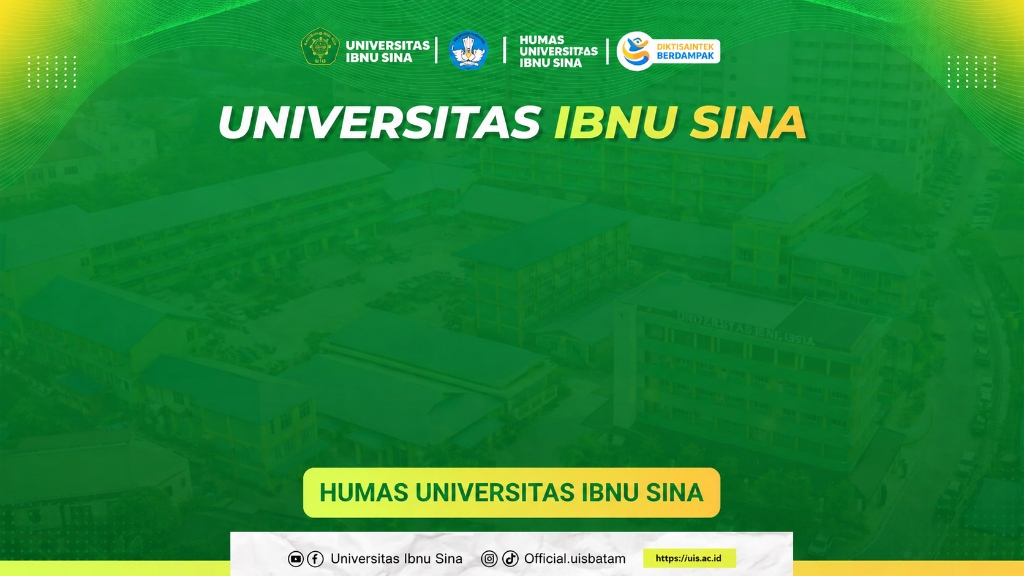
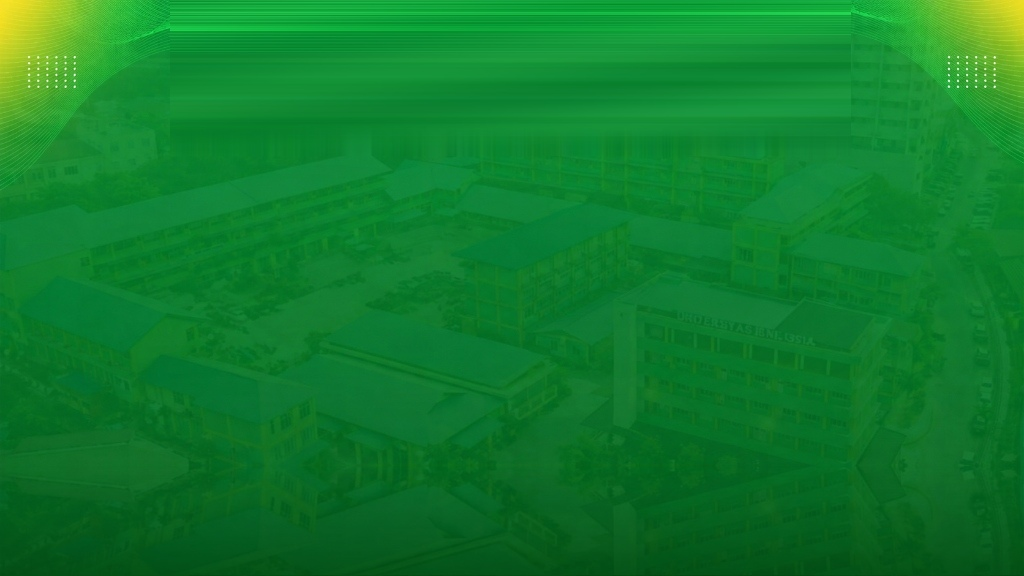
fix(visimisi): ensure uploaded background image saves directly to assets/img, avoid symlink failure and add cache-busting version

Changed region(s): [[0.0, 0.8125, 1.0, 1.0], [0.1562, 0.0, 0.8438, 0.125], [0.1875, 0.1562, 0.8125, 0.25]]

diff --git a/app/Http/Controllers/VisiMisiController.php b/app/Http/Controllers/VisiMisiController.php
@@ -73,16 +73,53 @@ class VisiMisiController extends Controller
         }
 
         if ($request->hasFile('visimisi_background')) {
-            if ($about->visimisi_background) {
-                $oldPath = ltrim(preg_replace('#^(public/|storage/)#', '', $about->visimisi_background), '/');
-                if (Storage::disk('public')->exists($oldPath)) {
-                    Storage::disk('public')->delete($oldPath);
+            $file = $request->file('visimisi_background');
+            $ext = strtolower($file->getClientOriginalExtension() ?: 'jpg');
+            $filename = 'visimisi_bg_' . time() . '_' . uniqid() . '.' . $ext;
+
+            // 1. Simpan ke Storage disk public standar Laravel
+            $storedPath = $file->storeAs('visi-misi', $filename, 'public');
+
+            // 2. Simpan juga langsung ke public/assets/img/ agar 100% langsung bisa diakses tanpa ketergantungan symlink storage
+            try {
+                $publicImgDir = public_path('assets/img');
+                if (!file_exists($publicImgDir)) {
+                    @mkdir($publicImgDir, 0755, true);
                 }
-                if (file_exists(public_path('storage/' . $oldPath))) {
-                    @unlink(public_path('storage/' . $oldPath));
-                }
+                @copy($file->getRealPath(), $publicImgDir . '/' . $filename);
+            } catch (\Throwable $e) {
+                \Illuminate\Support\Facades\Log::warning('Copy visimisi bg to assets/img failed: ' . $e->getMessage());
             }
-            $updateData['visimisi_background'] = $request->file('visimisi_background')->store('visi-misi', 'public');
+
+            // 3. Simpan juga ke public/storage/visi-misi jika folder public/storage ada
+            try {
+                $publicStorageDir = public_path('storage/visi-misi');
+                if (!file_exists($publicStorageDir)) {
+                    @mkdir($publicStorageDir, 0755, true);
+                }
+                @copy($file->getRealPath(), $publicStorageDir . '/' . $filename);
+            } catch (\Throwable $e) {}
+
+            // Hapus file lama jika ada
+            if ($about->visimisi_background) {
+                $oldRaw = $about->visimisi_background;
+                $oldClean = ltrim(preg_replace('#^(public/|storage/)#', '', $oldRaw), '/');
+                $oldBase = basename($oldClean);
+
+                try {
+                    if (Storage::disk('public')->exists($oldClean)) {
+                        Storage::disk('public')->delete($oldClean);
+                    }
+                    if (file_exists(public_path('storage/' . $oldClean))) {
+                        @unlink(public_path('storage/' . $oldClean));
+                    }
+                    if (file_exists(public_path('assets/img/' . $oldBase))) {
+                        @unlink(public_path('assets/img/' . $oldBase));
+                    }
+                } catch (\Throwable $e) {}
+            }
+
+            $updateData['visimisi_background'] = $filename;
         }
 
         if (!empty($updateData)) {
@@ -226,13 +263,21 @@ class VisiMisiController extends Controller
         $about = About::firstOrCreate(['id' => 1]);
 
         if ($about->visimisi_background) {
-            $clean = ltrim(preg_replace('#^(public/|storage/)#', '', $about->visimisi_background), '/');
-            if (Storage::disk('public')->exists($clean)) {
-                Storage::disk('public')->delete($clean);
-            }
-            if (file_exists(public_path('storage/' . $clean))) {
-                @unlink(public_path('storage/' . $clean));
-            }
+            $raw = $about->visimisi_background;
+            $clean = ltrim(preg_replace('#^(public/|storage/)#', '', $raw), '/');
+            $base = basename($clean);
+
+            try {
+                if (Storage::disk('public')->exists($clean)) {
+                    Storage::disk('public')->delete($clean);
+                }
+                if (file_exists(public_path('storage/' . $clean))) {
+                    @unlink(public_path('storage/' . $clean));
+                }
+                if (file_exists(public_path('assets/img/' . $base))) {
+                    @unlink(public_path('assets/img/' . $base));
+                }
+            } catch (\Throwable $e) {}
         }
 
         $about->visimisi_background = null;

diff --git a/app/Models/About.php b/app/Models/About.php
@@ -148,21 +148,49 @@ class About extends Model
             }
 
             $cleanPath = ltrim(preg_replace('#^(public/|storage/)#', '', $raw), '/');
+            $baseName = basename($cleanPath);
 
+            // 1. Cek di public/assets/img/ (paling cepat & aman tanpa ketergantungan symlink)
+            if (file_exists(public_path('assets/img/' . $baseName))) {
+                $ver = filemtime(public_path('assets/img/' . $baseName));
+                return asset('assets/img/' . $baseName) . '?v=' . $ver;
+            }
+
+            // 2. Cek di public/storage/
             if (file_exists(public_path('storage/' . $cleanPath))) {
-                return asset('storage/' . $cleanPath);
+                $ver = filemtime(public_path('storage/' . $cleanPath));
+                return asset('storage/' . $cleanPath) . '?v=' . $ver;
             }
+
+            // 3. Cek di public root
             if (file_exists(public_path($cleanPath))) {
-                return asset($cleanPath);
+                $ver = filemtime(public_path($cleanPath));
+                return asset($cleanPath) . '?v=' . $ver;
             }
+
+            // 4. Cek di Storage disk public
+            try {
+                if (\Illuminate\Support\Facades\Storage::disk('public')->exists($cleanPath)) {
+                    return \Illuminate\Support\Facades\Storage::disk('public')->url($cleanPath);
+                }
+            } catch (\Throwable $e) {}
+
+            // 5. Fallback jika ada data file kustom di DB tapi file_exists server gagal:
+            // Tetap arahkan ke asset kustom agar browser me-request file kustom (bukan revert ke default!)
+            if (str_contains($cleanPath, '/')) {
+                return asset('storage/' . $cleanPath) . '?v=' . time();
+            }
+            return asset('assets/img/' . $baseName) . '?v=' . time();
         }
 
         // Default background gambar Visi Misi resmi UIS (bersih tanpa teks)
         if (file_exists(public_path('assets/img/visimisi-campus-clean-bg.jpg'))) {
-            return asset('assets/img/visimisi-campus-clean-bg.jpg');
+            $ver = filemtime(public_path('assets/img/visimisi-campus-clean-bg.jpg'));
+            return asset('assets/img/visimisi-campus-clean-bg.jpg') . '?v=' . $ver;
         }
         if (file_exists(public_path('assets/img/visimisi-default-bg.jpg'))) {
-            return asset('assets/img/visimisi-default-bg.jpg');
+            $ver = filemtime(public_path('assets/img/visimisi-default-bg.jpg'));
+            return asset('assets/img/visimisi-default-bg.jpg') . '?v=' . $ver;
         }
 
         return null;
